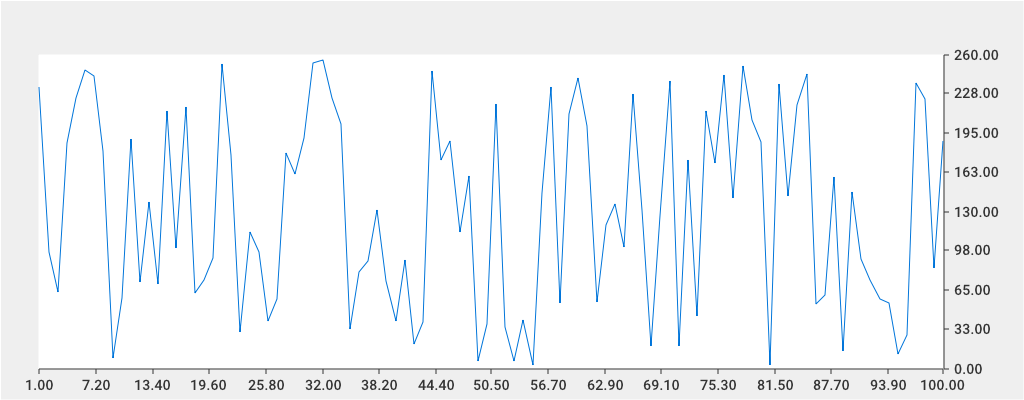
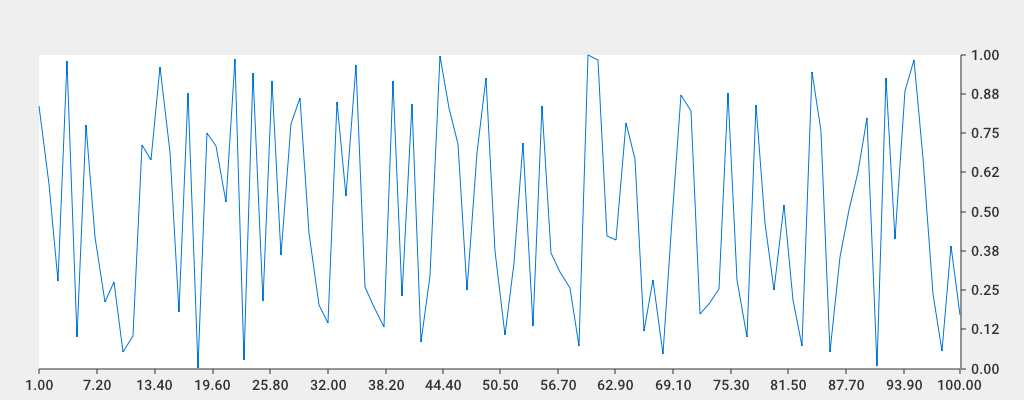
dont need to use curl, just using wget

diff --git a/_examples/custom_padding/main.go b/_examples/custom_padding/main.go
@@ -31,8 +31,8 @@ func drawChart(res http.ResponseWriter, req *http.Request) {
 		},
 		Series: []chart.Series{
 			chart.ContinuousSeries{
-				XValues: seq.Wrap(seq.NewLinear().WithStart(1.0).WithEnd(100.0)).Array(),
-				YValues: seq.Wrap(seq.NewRandom().WithLen(100).WithAverage(256)).Array(),
+				XValues: seq.Range(1.0, 100.0),
+				YValues: seq.New(seq.NewRandom().WithLen(100).WithAverage(256)).Array(),
 			},
 		},
 	}
@@ -58,8 +58,8 @@ func drawChartDefault(res http.ResponseWriter, req *http.Request) {
 		},
 		Series: []chart.Series{
 			chart.ContinuousSeries{
-				XValues: seq.Wrap(seq.NewLinear().WithStart(1.0).WithEnd(100.0)).Array(),
-				YValues: seq.Wrap(seq.NewRandom().WithLen(100).WithAverage(256)).Array(),
+				XValues: seq.Range(1.0, 100.0),
+				YValues: seq.New(seq.NewRandom().WithLen(100).WithAverage(256)).Array(),
 			},
 		},
 	}
